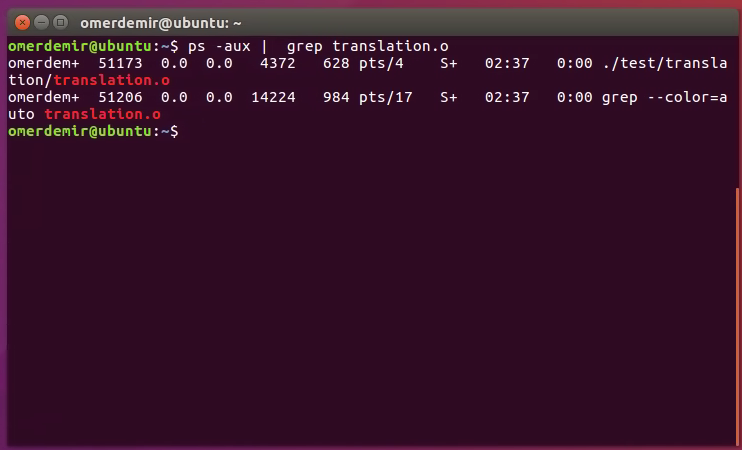
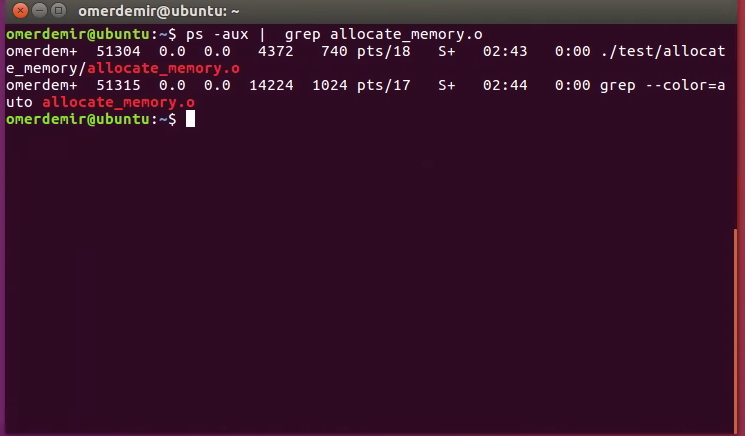
translation changed allocate_memory

diff --git a/README.md b/README.md
@@ -30,9 +30,9 @@ After compiling kernel reboot the machine with `reboot` command.
 Check your new kernel version with `uname -r` command.
 
 Run allocate_memory script with `./allocate_memory.sh` command. It allocates memory and return virtual address and physical address.
-![menuconfig4](https://github.com/omerfdemir/virtualtophysical/blob/master/images/testscript.png)
+![allocate_memory_script](https://github.com/omerfdemir/virtualtophysical/blob/master/images/allocate_memory_script.png)
 
 To check physical address of other process we need to know process id and virtual address of that process.
 
 Check the id of testscript with typing `ps -aux | grep translation.o`
-![menuconfig4](https://github.com/omerfdemir/virtualtophysical/blob/master/images/pid.png)
+![pid](https://github.com/omerfdemir/virtualtophysical/blob/master/images/pid.png)
